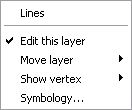
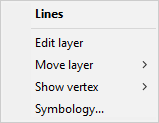
Updating symbology entries from the contextual menu.

diff --git a/doc/usermanual/datamanagement.rst b/doc/usermanual/datamanagement.rst
@@ -201,9 +201,14 @@ Support
 * Remove layer (support themes only)
 * Move the selected layer in the table of contents
 
-.. image:: img/pdm-tocmove.png
+.. image:: img/pdm-toc-move.png
 
 * Display management of the vertex (line and polygon layers type only)
+
+.. image:: img/pdm-toc-vertex.png
+
+* Save symbology of the layer to a file.
+* Load symbology from a file and apply to current layer.
 * Symbology management. This option can also be activated by double-clicking on the layer. (see :ref:`symbology`)
 
 
